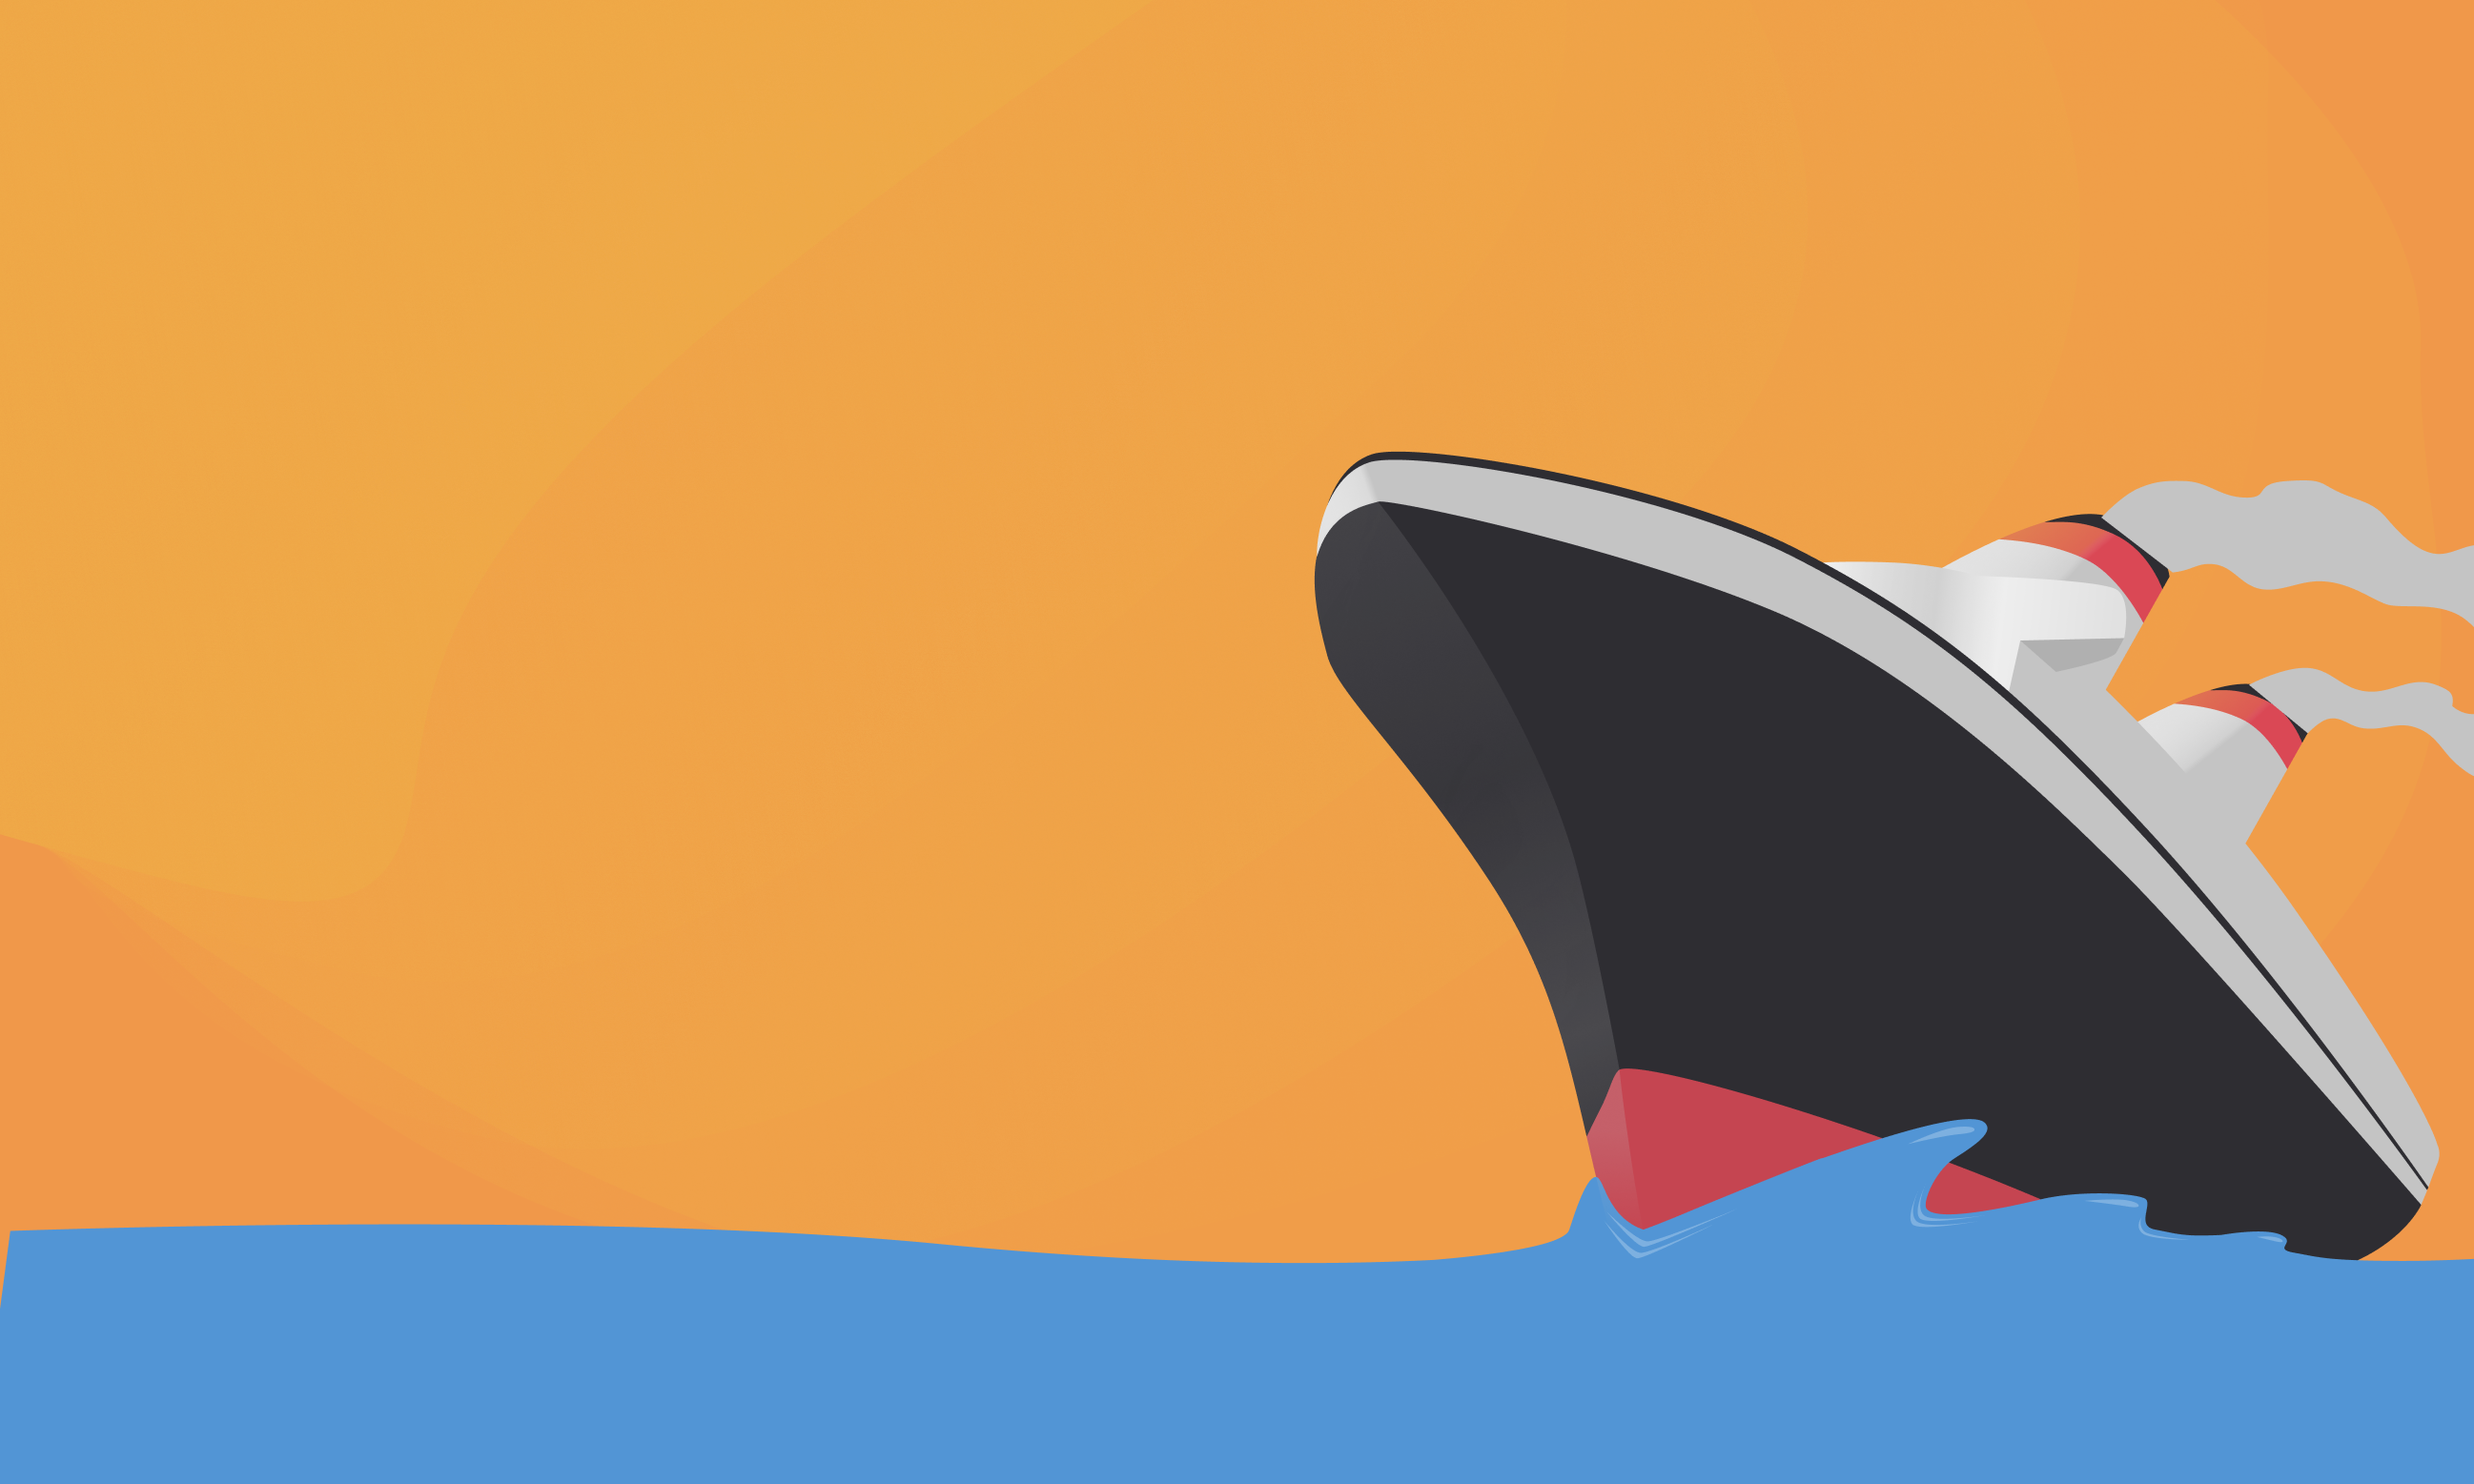
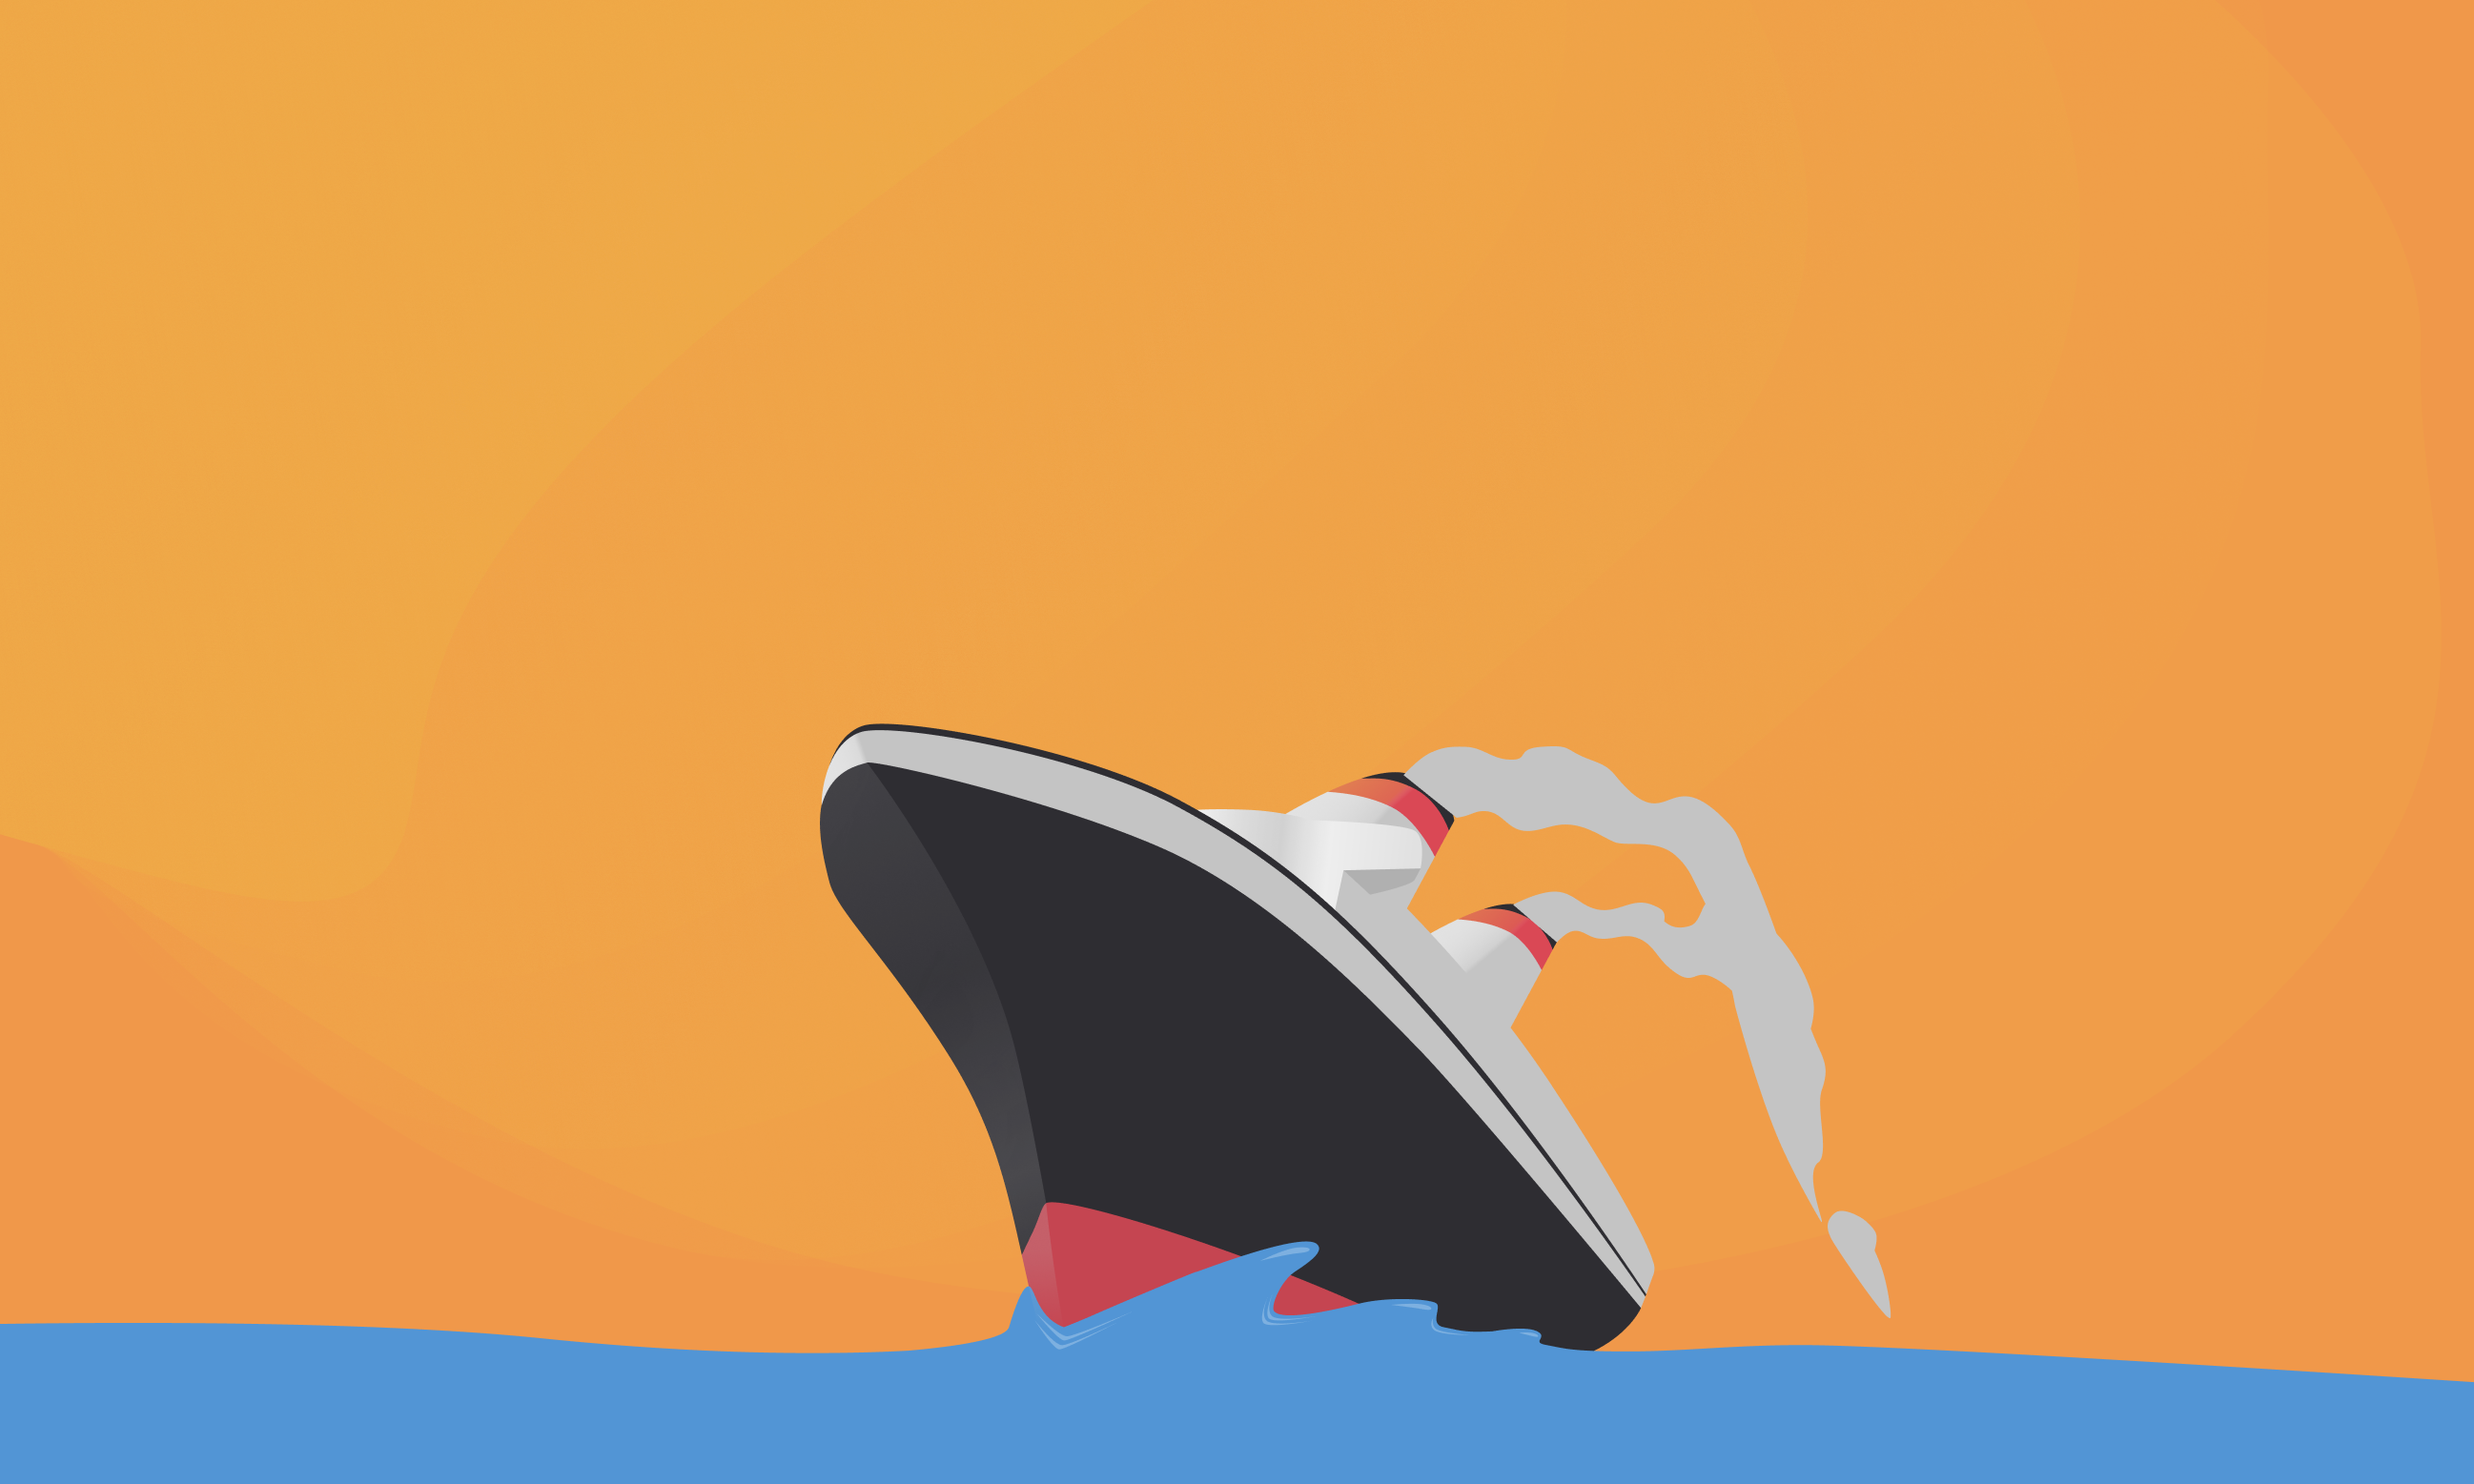
Add First Slideshow (no dynamics)

diff --git a/pages/index.js b/pages/index.js
@@ -1,9 +1,50 @@
-import { Container } from 'theme-ui'
+import { Box, Container, Heading } from 'theme-ui'
+import Image from 'next/image'
+import profilePic from '../public/ship_bg.png'
+import React, { useState } from 'react'
+import One from '../slides/1'
+import Two from '../slides/2'
+import Three from '../slides/3'
+import Four from '../slides/4'
+import Five from '../slides/5'
+import Six from '../slides/6'
 
-<Container>
+export default function Home() {
+  const [slide, setSlide] = useState(1)
+  const handleKeyPress = event => {
+    if (event.key === 'ArrowLeft') {
+      setSlide(slide > 1 ? slide - 1 : slide)
+    } else if (event.key === 'ArrowRight') {
+      setSlide(slide < 6 ? slide + 1 : slide)
+    }
+  }
 
-# Hello!
+  React.useEffect(() => {
+    document.addEventListener('keydown', handleKeyPress)
 
-You’re using the [Hack Club Theme Starter](https://github.com/hackclub/theme-starter).
+    return () => document.removeEventListener('keydown', handleKeyPress)
+  }, [slide])
 
-</Container>
+  switch (slide) {
+    case 1:
+      return <One />
+      break
+    case 2:
+      return <Two />
+      break
+    case 3:
+      return <Three />
+      break
+    case 4:
+      return <Four />
+      break
+    case 5:
+      return <Five />
+      break
+    case 6:
+      return <Six />
+      break
+    default:
+      return <>No Slide</>
+  }
+}

diff --git a/slides/2.js b/slides/2.js
@@ -1,0 +1,56 @@
+import { Box, Grid, Heading } from 'theme-ui'
+import Image from 'next/image'
+import qrCode from '../public/qrcode.png'
+
+export default function SlideTwo() {
+  return (
+    <Box
+      sx={{
+        bg: '#5295D5',
+        height: '100vh',
+        width: '100vw',
+        textAlign: 'center',
+        display: 'flex',
+        alignItems: 'center',
+        justifyContent: 'center',
+      }}
+      color="white"
+    >
+      <Box>
+        <Heading
+          as="h1"
+          color="white"
+          sx={{ fontSize: [6, 7], fontWeight: 900 }}
+        >
+          1: Join the Slack
+        </Heading>
+        <Heading sx={{ fontWeight: 400 }}>
+          Fill out the linked form and then check your email for instructions.
+        </Heading>
+        <Box
+          sx={{
+            bg: 'white',
+            p: 3,
+            mt: 4,
+            borderRadius: 6,
+            width: 'fit-content',
+            mx: 'auto'
+          }}
+        >
+          <Image src={qrCode} height="300" width="300" />
+          <Heading
+            sx={{
+              color: '#5295D5',
+              textTransform: 'uppercase',
+              textAlign: 'center',
+              mt: 2,
+              fontSize: [3, 4]
+            }}
+          >
+            hack.af/slack
+          </Heading>
+        </Box>
+      </Box>
+    </Box>
+  )
+}

diff --git a/slides/1.js b/slides/1.js
@@ -1,0 +1,44 @@
+import { Box, Container, Heading } from 'theme-ui'
+import Image from 'next/image'
+import profilePic from '../public/ship_bg.png'
+
+export default function SlideOne() {
+  return (
+    <Container>
+      <Container
+        sx={{
+          position: 'absolute',
+          width: '100vw',
+          height: '100vh',
+          zIndex: '999',
+          display: 'flex',
+          justifyContent: 'center',
+          textAlign: 'center'
+        }}
+      >
+        <Box mt={4}>
+          <Heading
+            as="h1"
+            color="white"
+            sx={{ fontSize: [6, 7], fontWeight: 900 }}
+          >
+            Your First Ship
+          </Heading>
+          <Heading as="h1" color="white" >
+            on the Hack Club Slack
+          </Heading>
+        </Box>
+      </Container>
+      <Image src={profilePic} layout="fill" placeholder="blur" quality="100" />
+      <style>
+        {`
+        img{
+          object-fit: cover;
+          object-position: bottom;
+        }
+        
+        `}
+      </style>
+    </Container>
+  )
+}

diff --git a/slides/3.js b/slides/3.js
@@ -1,0 +1,44 @@
+import { Box, Grid, Heading } from 'theme-ui'
+
+export default function SlideThree() {
+  return (
+    <Box
+      sx={{
+        bg: 'purple',
+        height: '100vh',
+        width: '100vw',
+        textAlign: 'center',
+        display: 'flex',
+        alignItems: 'center',
+        justifyContent: 'center'
+      }}
+      color="white"
+    >
+      <Box>
+        <Box
+          sx={{
+            mb: 4,
+            width: 'fit-content',
+            mx: 'auto'
+          }}
+        >
+          <img
+            src="https://i.gifer.com/origin/c6/c6afab251a20e6d0eb80b983450bc66e_w200.gif"
+            height="300"
+            width="300"
+          />
+        </Box>
+        <Heading
+          as="h1"
+          color="white"
+          sx={{ fontSize: [6, 7], fontWeight: 900 }}
+        >
+          2: Meet Clippy
+        </Heading>
+        <Heading sx={{ fontWeight: 400 }}>
+          Clippy will show you around the Slack and all of it's channels!
+        </Heading>
+      </Box>
+    </Box>
+  )
+}

diff --git a/slides/5.js b/slides/5.js
@@ -1,0 +1,47 @@
+import { Box, Grid, Heading } from 'theme-ui'
+import Image from 'next/image'
+import messageSS from '../public/message.png'
+
+export default function SlideFive() {
+  return (
+    <Box
+      sx={{
+        bg: 'green',
+        height: '100vh',
+        width: '100vw',
+        textAlign: 'center',
+        display: 'flex',
+        alignItems: 'center',
+        justifyContent: 'center'
+      }}
+      color="white"
+    >
+      <Box>
+        <Box
+          sx={{
+            mb: 4,
+            width: 'fit-content',
+            mx: 'auto'
+          }}
+        >
+          <Image src={messageSS} alt="Messagee" quality="100" />
+        </Box>
+        <Heading
+          as="h1"
+          color="white"
+          sx={{ fontSize: [6, 7], fontWeight: 900 }}
+        >
+          5: Introduce Your Project
+        </Heading>
+      </Box>
+      <style>
+        {`
+        img{
+          border-radius: 8px;
+        }
+        
+        `}
+      </style>
+    </Box>
+  )
+}

diff --git a/slides/6.js b/slides/6.js
@@ -1,0 +1,39 @@
+import { Box, Grid, Heading } from 'theme-ui'
+import Image from 'next/image'
+import messageSS from '../public/message.png'
+
+export default function SlideFive() {
+  return (
+    <Box
+      sx={{
+        bg: '#F0984A',
+        height: '100vh',
+        width: '100vw',
+        textAlign: 'center',
+        display: 'flex',
+        alignItems: 'center',
+        justifyContent: 'center'
+      }}
+      color="white"
+    >
+      <Box>
+        <Heading
+          as="h1"
+          color="white"
+          sx={{ fontSize: [7, 8], fontWeight: 900 }}
+        >
+          🚢 <br /> Ship it!
+        </Heading>
+        <Heading as="h1" sx={{fontWeight: '400', mt: 1}}>Just click send in Slack :D</Heading>
+      </Box>
+      <style>
+        {`
+        img{
+          border-radius: 8px;
+        }
+        
+        `}
+      </style>
+    </Box>
+  )
+}

diff --git a/pages/_app.js b/pages/_app.js
@@ -1,8 +1,8 @@
 import * as React from 'react'
 import NextApp from 'next/app'
-
-// import '@hackclub/theme/fonts/reg-bold.css'
+import '@hackclub/theme/fonts/reg-bold.css'
 import theme from '@hackclub/theme'
+import Meta from '@hackclub/meta'
 import { ThemeProvider } from 'theme-ui'
 import ColorSwitcher from '../components/color-switcher'
 
@@ -11,7 +11,10 @@ export default class App extends NextApp {
     const { Component, pageProps } = this.props
     return (
       <ThemeProvider theme={theme}>
-        <ColorSwitcher />
+        <Meta
+          title="Your First Ship"
+          image="https://cloud-qwx0yrr5p-hack-club-bot.vercel.app/0facebook_post_-_1.png"
+        />
         <Component {...pageProps} />
       </ThemeProvider>
     )

diff --git a/slides/4.js b/slides/4.js
@@ -1,0 +1,35 @@
+import { Box, Grid, Heading } from 'theme-ui'
+import Image from 'next/image'
+
+export default function SlideFour() {
+  return (
+    <Box
+      sx={{
+        bg: 'red',
+        height: '100vh',
+        width: '100vw',
+        textAlign: 'center',
+        display: 'flex',
+        alignItems: 'center',
+        justifyContent: 'center'
+      }}
+      color="white"
+    >
+      <Box>
+        <Heading
+          as="h1"
+          color="white"
+          sx={{ fontSize: [5, 6], fontWeight: 900, pt: 4 }}
+        >
+          3: Enter the Ship Channel
+        </Heading>
+        <Image
+          src="/slack.png"
+          width="1000px"
+          height="580px"
+        />
+      </Box>
+      
+    </Box>
+  )
+}

diff --git a/pages/_document.js b/pages/_document.js
@@ -12,7 +12,6 @@ export default class extends Document {
       <Html lang="en">
         <Head />
         <body>
-          <InitializeColorMode />
           <Main />
           <NextScript />
         </body>
